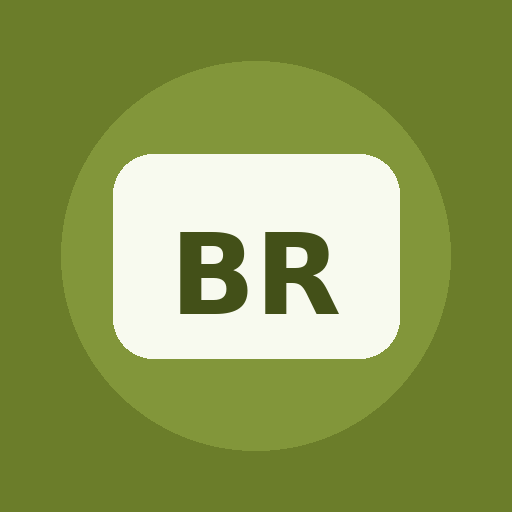
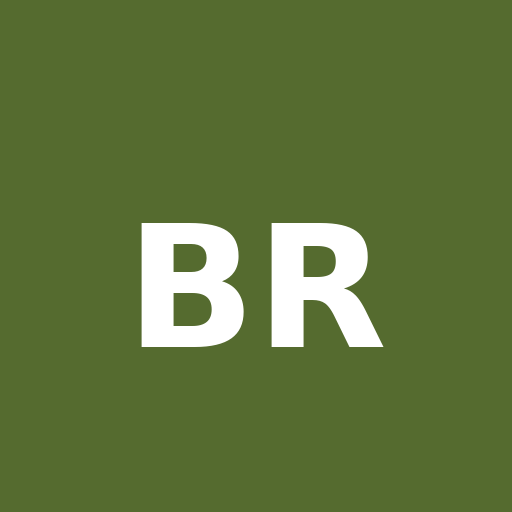
Add files via upload

diff --git a/app.js b/app.js
@@ -1,82 +1,70 @@
-const els = {
-  search: document.getElementById('search'), clear: document.getElementById('clearBtn'), results: document.getElementById('results'),
-  stats: document.getElementById('stats'), header: document.getElementById('sectionHeader'), subtitle: document.getElementById('subtitle'),
-  dialog: document.getElementById('detailDialog'), detail: document.getElementById('detailContent'), close: document.getElementById('closeDialog'), theme: document.getElementById('themeBtn')
-};
-let DATA = []; let view = 'home'; let activeQuery = ''; let favorites = readStore('boykot_favorites', []);
-const VERSION = 'olive-2026-07-05-1';
-function readStore(key, fallback){try{const v=JSON.parse(localStorage.getItem(key)||'null');return Array.isArray(v)?v:fallback}catch{return fallback}}
-function saveStore(key, value){localStorage.setItem(key, JSON.stringify(value))}
-function norm(s){return String(s ?? '').toLocaleLowerCase('tr-TR').normalize('NFD').replace(/[\u0300-\u036f]/g,'').trim()}
-function esc(s){return String(s ?? '').replaceAll('&','&amp;').replaceAll('<','&lt;').replaceAll('>','&gt;').replaceAll('"','&quot;').replaceAll("'",'&#039;')}
-function field(x, ...keys){for(const k of keys){if(x && x[k] !== undefined && x[k] !== null && String(x[k]).trim() !== '') return String(x[k]).trim()} return ''}
-function codeStatus(code){const c=norm(code); if(c.startsWith('c')) return 'alternatif'; if(c.startsWith('d')) return 'inceleme'; return 'boykot'}
-function label(item){const s=item.status; if(s==='alternatif') return '🟢 ALTERNATİF'; if(s==='inceleme') return '⚪ İNCELENİYOR'; return '🔴 BOYKOT'}
-function initials(name){return (name||'?').split(/\s+/).filter(Boolean).slice(0,2).map(w=>w[0]).join('').toUpperCase().slice(0,2)}
-function prepare(raw){return raw.map((x,i)=>{const item={id:i, marka:field(x,'marka','Marka'), anafirma:field(x,'anaFirma','anafirma','Ana Firma','ana_firma'), kod:field(x,'kod','Kod'), kategori:field(x,'kategori','Kategori'), alternatif:field(x,'alternatif','Alternatif'), kaynak:field(x,'kaynak','Kaynak','kanyak'), not:field(x,'not','Not')}; item.status=codeStatus(item.kod); item.search=norm([item.marka,item.anafirma,item.kod,item.kategori,item.alternatif,item.kaynak,item.not].join(' ')); return item}).sort((a,b)=>a.marka.localeCompare(b.marka,'tr'))}
-async function init(){applyTheme(); try{const res=await fetch(`data.json?v=${VERSION}`,{cache:'no-store'}); if(!res.ok) throw new Error('data.json bulunamadı'); const json=await res.json(); DATA=prepare(Array.isArray(json)?json:[]); render()}catch(e){els.stats.innerHTML=''; els.header.innerHTML='<h2>Hata</h2>'; els.results.innerHTML=`<div class="empty">data.json yüklenemedi.<br>${esc(e.message)}</div>`}}
-function currentList(){const q=norm(activeQuery || els.search.value); let list=DATA; if(q) list=list.filter(x=>x.search.includes(q)); if(view==='favorites') list=list.filter(x=>favorites.includes(x.marka)); return list}
-function renderStats(){const total=DATA.length, boy=DATA.filter(x=>x.status==='boykot').length, altStatus=DATA.filter(x=>x.status==='alternatif').length, altFilled=DATA.filter(x=>x.alternatif && x.alternatif.trim()).length, inc=DATA.filter(x=>x.status==='inceleme').length; els.stats.innerHTML=`<div class="stat"><b>${total}</b><small>Toplam</small></div><div class="stat"><b>${boy}</b><small>Boykot</small></div><div class="stat"><b>${altFilled}</b><small>Alternatifli</small></div><div class="stat"><b>${inc}</b><small>İnceleme</small></div><div class="stat"><b>${altStatus}</b><small>Yeşil Kod</small></div>`; els.subtitle.textContent=`${total} marka içinde ara`}
-function setHeader(title, desc, back=false){els.header.innerHTML=`<div><h2>${esc(title)}</h2><p>${esc(desc||'')}</p></div>${back?'<button id="backHome" type="button">Temizle</button>':''}`; const b=document.getElementById('backHome'); if(b)b.onclick=()=>{activeQuery=''; els.search.value=''; view='home'; setNav(); render()}}
-function card(item){const isFav=favorites.includes(item.marka); return `<article class="card status-${item.status}" data-id="${item.id}"><div class="cardTop"><div class="logoCircle">${esc(initials(item.marka))}</div><div style="min-width:0;flex:1"><h3>${esc(item.marka)}</h3><div class="sub">🏢 ${esc(item.anafirma || 'Ana firma belirtilmemiş')}</div></div><button class="favBtn" data-fav="${item.id}" type="button">${isFav?'★':'☆'}</button></div><div class="tagRow"><span class="tag ${item.status==='boykot'?'danger':item.status==='alternatif'?'ok':'warn'}">${label(item)}</span><span class="tag blue">${esc(item.kod || 'Kod yok')}</span>${item.kategori?`<span class="tag">${esc(item.kategori)}</span>`:''}</div>${item.alternatif?`<div class="altBox"><span>Önerilen alternatif</span><b>${esc(item.alternatif)}</b></div>`:''}<div class="cardActions"><span class="sub">Detay ve kaynak</span><button class="detailBtn" data-detail="${item.id}" type="button">Aç →</button></div></article>`}
-function renderHome(){const list=currentList(); const q=norm(activeQuery || els.search.value); setHeader(q?'Arama sonuçları':'Markalar', q?`${list.length} sonuç bulundu`:`${DATA.length} kayıt listeleniyor`, !!q); els.results.className='results cards'; els.results.innerHTML=list.length?list.slice(0,350).map(card).join('')+(list.length>350?`<div class="empty">İlk 350 sonuç gösteriliyor. Daha özel arama yaz.</div>`:''):`<div class="empty">Sonuç bulunamadı.</div>`}
-function groupBy(key){const m=new Map(); for(const item of DATA){const k=item[key]||'Belirtilmemiş'; if(!m.has(k))m.set(k,[]); m.get(k).push(item)} return [...m.entries()].sort((a,b)=>a[0].localeCompare(b[0],'tr'))}
-function renderGroups(kind){const key=kind==='companies'?'anafirma':'kategori'; const title=kind==='companies'?'Ana Firmalar':'Kategoriler'; const groups=groupBy(key); setHeader(title, `${groups.length} başlık`); els.results.className='results'; els.results.innerHTML=groups.map(([name,items])=>`<div class="listItem" data-query="${esc(name)}"><div><b>${esc(name)}</b><br><small>${items.length} marka</small></div><span class="chev">›</span></div>`).join('')}
-function renderFavorites(){const list=currentList(); setHeader('Favoriler', `${list.length} marka`); els.results.className='results cards'; els.results.innerHTML=list.length?list.map(card).join(''):`<div class="empty">Henüz favori eklemedin. Marka kartındaki yıldız işaretine bas.</div>`}
-function renderAbout(){
-  setHeader('Hakkında','Kullanım bilgisi ve açıklamalar');
-  const total=DATA.length;
-  const altFilled=DATA.filter(x=>x.alternatif && x.alternatif.trim()).length;
-  const companies=groupBy('anafirma').length;
-  const categories=groupBy('kategori').length;
-  els.results.className='results aboutPage';
-  els.results.innerHTML=`
-    <section class="aboutHero card">
-      <div class="aboutIcon">BR</div>
-      <div>
-        <h3>📖 Boykot Rehberi</h3>
-        <p>Markalar hakkında hızlı bilgi edinmek, ana firmaları görmek ve alternatif ürünleri kolayca bulmak için hazırlanmıştır.</p>
-      </div>
-    </section>
+const VERSION = "20260705-olive-real-no-old-cache";
+let DATA = [];
+let view = "home";
+let filter = "all";
+let favorites = loadFavorites();
+let currentTitle = "Tüm Markalar";
 
-    <section class="aboutStats">
-      <div class="miniStat"><b>${total}</b><span>Marka</span></div>
-      <div class="miniStat"><b>${companies}</b><span>Ana Firma</span></div>
-      <div class="miniStat"><b>${categories}</b><span>Kategori</span></div>
-      <div class="miniStat"><b>${altFilled}</b><span>Alternatifli</span></div>
-    </section>
+const $ = id => document.getElementById(id);
+const search = $("search"), clearBtn = $("clearBtn"), stats = $("stats"), filters = $("filters"), sectionTitle = $("sectionTitle"), results = $("results"), themeBtn = $("themeBtn");
 
-    <section class="infoCard">
-      <h3>🔍 Nasıl kullanılır?</h3>
-      <p>Arama kutusuna marka adı, ana firma, kategori veya alternatif ürün yazarak hızlıca sonuç bulabilirsin.</p>
-    </section>
+const codeLabels = {A1:"🔴 Boykot",A2:"🔴 Boykot",A3:"🔴 Boykot",B1:"🟠 Dikkat",B2:"🟠 Dikkat",C1:"🟢 Alternatif",C2:"🟢 Alternatif",D1:"⚪ İnceleniyor",D2:"⚪ İnceleniyor"};
+function esc(s){return String(s ?? "").replaceAll("&","&amp;").replaceAll("<","&lt;").replaceAll(">","&gt;").replaceAll('"',"&quot;").replaceAll("'","&#039;")}
+function norm(s){return String(s||"").toLocaleLowerCase("tr-TR").normalize("NFD").replace(/[\u0300-\u036f]/g,"").trim()}
+function get(obj, names){for(const n of names){if(obj && obj[n]!==undefined && obj[n]!==null && String(obj[n]).trim()!=="") return String(obj[n]).trim()} return ""}
+function favKey(marka){return norm(marka)}
+function loadFavorites(){try{return JSON.parse(localStorage.getItem("boykot_favorites_v2")||"[]")}catch{return []}}
+function saveFavorites(){localStorage.setItem("boykot_favorites_v2", JSON.stringify(favorites))}
+function isFav(marka){return favorites.includes(favKey(marka))}
+function toggleFav(marka){const k=favKey(marka); favorites=isFav(marka)?favorites.filter(x=>x!==k):[...favorites,k]; saveFavorites(); render()}
+function hasAlternative(x){const a=norm(x.alternatif); return !!a && !a.includes("alternatif manuel eklenmeli")}
 
-    <section class="infoGrid">
-      <div class="infoCard"><h3>🏢 Ana Firmalar</h3><p>Aynı şirkete bağlı markaları tek ekranda görmek için Ana Firma bölümünü kullan.</p></div>
-      <div class="infoCard"><h3>📂 Kategoriler</h3><p>Temizlik, gıda, kozmetik, sağlık gibi alanlara göre markaları listeleyebilirsin.</p></div>
-      <div class="infoCard"><h3>⭐ Favoriler</h3><p>Sık baktığın markaları yıldızla favorilerine ekleyebilirsin.</p></div>
-      <div class="infoCard"><h3>📋 Detaylar</h3><p>Marka kartına dokunarak ana firma, kod, kategori, alternatif, not ve kaynak bilgisini görebilirsin.</p></div>
-    </section>
-
-    <section class="infoCard warningCard">
-      <h3>⚠️ Bilgilendirme</h3>
-      <p>Bu uygulama yalnızca bilgilendirme amacıyla hazırlanmıştır. Listede yer alan bilgiler farklı kaynaklardan derlenmiştir. Satın alma kararı vermeden önce güncel bilgileri bağımsız kaynaklardan doğrulaman tavsiye edilir.</p>
-    </section>
-
-    <section class="infoCard">
-      <h3>🔄 Güncelleme</h3>
-      <p>Listeyi güncellemek için GitHub’da sadece <b>data.json</b> dosyasını değiştirmen yeterlidir. Uygulama <b>anaFirma</b> ve <b>anafirma</b> alanlarını birlikte okuyabilir.</p>
-      <div class="tagRow"><span class="tag green">Sürüm 1.1</span><span class="tag">Zeytin yeşili tema</span><span class="tag">Tam liste</span></div>
-    </section>`;
+function normalizeItem(raw, i){
+  const marka = get(raw,["marka","Marka","brand"]) || `Marka ${i+1}`;
+  const anaFirma = get(raw,["anaFirma","anafirma","Ana Firma","AnaFirma","ana_firma"]);
+  const kod = get(raw,["kod","Kod","code"]) || "D1";
+  const kategori = get(raw,["kategori","Kategori","category"]);
+  const alternatif = get(raw,["alternatif","Alternatif","alternative"]);
+  const kaynak = get(raw,["kaynak","Kaynak","kanyak","source","link"]);
+  const not = get(raw,["not","Not","note"]);
+  const hay = norm([marka, anaFirma, kod, kategori, alternatif, kaynak, not].join(" "));
+  return {marka, anaFirma, kod, kategori, alternatif, kaynak, not, hay};
 }
-function render(){renderStats(); if(view==='companies')return renderGroups('companies'); if(view==='categories')return renderGroups('categories'); if(view==='favorites')return renderFavorites(); if(view==='about')return renderAbout(); return renderHome()}
-function setNav(){document.querySelectorAll('.bottomNav button').forEach(b=>b.classList.toggle('active',b.dataset.view===view))}
-function toggleFav(item){const name=item.marka; favorites=favorites.includes(name)?favorites.filter(x=>x!==name):[...favorites,name]; saveStore('boykot_favorites',favorites); render()}
-function showDetail(item){els.detail.innerHTML=`<div class="detailInner"><h2>${esc(item.marka)}</h2><div class="tagRow"><span class="tag ${item.status==='boykot'?'danger':item.status==='alternatif'?'ok':'warn'}">${label(item)}</span><span class="tag blue">${esc(item.kod||'Kod yok')}</span></div><div class="detailGrid"><div class="detailRow"><span>Ana Firma</span><b>${esc(item.anafirma||'-')}</b></div><div class="detailRow"><span>Kategori</span><b>${esc(item.kategori||'-')}</b></div><div class="detailRow"><span>Alternatif</span><b>${esc(item.alternatif||'-')}</b></div><div class="detailRow"><span>Not</span><b>${esc(item.not||'-')}</b></div></div>${item.kaynak?`<a class="sourceLink" target="_blank" rel="noopener" href="${esc(item.kaynak)}">Kaynağı aç</a>`:''}</div>`; els.dialog.showModal()}
-function applyTheme(){const t=localStorage.getItem('theme')||'light'; document.documentElement.dataset.theme=t; els.theme.textContent=t==='dark'?'☀':'☾'}
-els.theme.onclick=()=>{const next=document.documentElement.dataset.theme==='dark'?'light':'dark'; localStorage.setItem('theme',next); applyTheme()};
-els.search.addEventListener('input',()=>{activeQuery=''; view='home'; setNav(); render()}); els.clear.onclick=()=>{els.search.value=''; activeQuery=''; view='home'; setNav(); render()}; els.close.onclick=()=>els.dialog.close();
-document.querySelectorAll('.bottomNav button').forEach(btn=>btn.onclick=()=>{view=btn.dataset.view; activeQuery=''; els.search.value=''; setNav(); render(); window.scrollTo({top:0,behavior:'smooth'})});
-els.results.addEventListener('click',e=>{const fav=e.target.closest('[data-fav]'); if(fav){e.stopPropagation(); return toggleFav(DATA[Number(fav.dataset.fav)])} const det=e.target.closest('[data-detail], .card[data-id]'); if(det){const id=Number(det.dataset.detail ?? det.dataset.id); return showDetail(DATA[id])} const li=e.target.closest('[data-query]'); if(li){activeQuery=li.dataset.query; els.search.value=activeQuery; view='home'; setNav(); render(); window.scrollTo({top:0,behavior:'smooth'})}});
-if('serviceWorker' in navigator){navigator.serviceWorker.register('sw.js').catch(()=>{})}
+
+async function clearOldCaches(){
+  try{
+    if("caches" in window){const keys=await caches.keys(); await Promise.all(keys.map(k=>caches.delete(k)));}
+  }catch(e){}
+}
+async function init(){
+  applyTheme();
+  await clearOldCaches();
+  try{
+    const res = await fetch(`data.json?v=${VERSION}`, {cache:"reload"});
+    if(!res.ok) throw new Error(`data.json yüklenemedi: ${res.status}`);
+    const json = await res.json();
+    const list = Array.isArray(json) ? json : (Array.isArray(json.data) ? json.data : []);
+    DATA = list.map(normalizeItem).sort((a,b)=>a.marka.localeCompare(b.marka,"tr"));
+    render();
+  }catch(err){
+    stats.innerHTML=""; filters.innerHTML=""; sectionTitle.innerHTML="";
+    results.innerHTML=`<div class="empty"><b>Veri yüklenemedi.</b><br>${esc(err.message)}<br><br>data.json dosyası index.html ile aynı klasörde olmalı.</div>`;
+  }
+}
+
+function counts(){return {total:DATA.length,boykot:DATA.filter(x=>/^A/i.test(x.kod)).length,dikkat:DATA.filter(x=>/^B/i.test(x.kod)).length,alternatifli:DATA.filter(hasAlternative).length,inceleme:DATA.filter(x=>/^D/i.test(x.kod)).length,firmalar:new Set(DATA.map(x=>x.anaFirma||"Belirtilmemiş")).size}}
+function renderStats(){const c=counts();stats.innerHTML=`<div class="stat"><b>${c.total}</b><small>Toplam</small></div><div class="stat"><b>${c.boykot}</b><small>Boykot</small></div><div class="stat"><b>${c.alternatifli}</b><small>Alternatifli</small></div><div class="stat"><b>${c.inceleme}</b><small>İnceleniyor</small></div>`}
+function renderFilters(){const arr=[["all","Tümü"],["A","🔴 Boykot"],["D","⚪ İnceleniyor"],["alt","🟢 Alternatifli"],["fav","⭐ Favoriler"]];filters.innerHTML=arr.map(([k,l])=>`<button class="chip ${filter===k?'active':''}" data-filter="${k}" type="button">${l}</button>`).join("")}
+function filteredList(){const q=norm(search.value);return DATA.filter(x=>{const okQ=!q||x.hay.includes(q);const okF=filter==="all"||(filter==="A"&&/^A/i.test(x.kod))||(filter==="D"&&/^D/i.test(x.kod))||(filter==="alt"&&hasAlternative(x))||(filter==="fav"&&isFav(x.marka));return okQ&&okF}).sort((a,b)=>isFav(b.marka)-isFav(a.marka)||a.marka.localeCompare(b.marka,"tr"))}
+function badge(kod){const cls=norm(kod).replace(/[^a-z0-9]/g,"");return `<span class="badge ${cls}">${esc(codeLabels[kod]||"Kod")} <b>${esc(kod)}</b></span>`}
+function tagHtml(alt){if(!hasAlternative({alternatif:alt}))return `<div class="box alt"><span>Alternatif</span><b>-</b></div>`;const tags=alt.split(/[;,•]/).map(x=>x.trim()).filter(Boolean).slice(0,9);return `<div class="box alt"><span>Alternatif</span><div class="tags">${tags.map(t=>`<em>${esc(t)}</em>`).join("")}</div></div>`}
+function card(x){return `<article class="card" data-brand="${encodeURIComponent(x.marka)}"><div class="cardTop"><div><div class="badgeLine">${badge(x.kod)}${hasAlternative(x)?'<span class="badge c2">🟢 Alternatif var</span>':''}</div><h3>${esc(x.marka)}</h3><div class="company">🏢 ${esc(x.anaFirma||"Belirtilmemiş")}</div></div><button class="fav" data-fav="${encodeURIComponent(x.marka)}" type="button">${isFav(x.marka)?"★":"☆"}</button></div><div class="meta"><div class="box"><span>Kategori</span><b>${esc(x.kategori||"Belirtilmemiş")}</b></div><div class="box"><span>Kod</span><b>${esc(x.kod||"D1")}</b></div></div>${tagHtml(x.alternatif)}<button class="more" type="button">Ayrıntıları Gör →</button></article>`}
+function renderHome(list=filteredList(), title=currentTitle){renderStats();renderFilters();sectionTitle.innerHTML=`<h2>${esc(title)}</h2><span>${list.length} sonuç</span>`;results.innerHTML=list.length?list.slice(0,600).map(card).join("")+(list.length>600?'<div class="empty">İlk 600 sonuç gösteriliyor. Daha dar arama yap.</div>':''):'<div class="empty">Sonuç bulunamadı.</div>'}
+function groupBy(key){const m=new Map();for(const x of DATA){const name=x[key]||"Belirtilmemiş";if(!m.has(name))m.set(name,[]);m.get(name).push(x)}return [...m.entries()].sort((a,b)=>b[1].length-a[1].length||a[0].localeCompare(b[0],"tr"))}
+function renderGroups(key,title,attr){renderStats();filters.innerHTML="";search.value="";const g=groupBy(key);sectionTitle.innerHTML=`<h2>${title}</h2><span>${g.length} liste</span>`;results.innerHTML=g.map(([name,items])=>`<div class="group" ${attr}="${encodeURIComponent(name)}"><div><b>${esc(name)}</b><br><small>${items.slice(0,3).map(x=>esc(x.marka)).join(", ")}${items.length>3?"...":""}</small></div><div class="count">${items.length}</div></div>`).join("")}
+function renderAbout(){const c=counts();stats.innerHTML="";filters.innerHTML="";sectionTitle.innerHTML="";search.value="";results.innerHTML=`<section class="aboutHero"><h2>📖 Boykot Rehberi</h2><p>Markaları, ana firmaları, kategorileri ve alternatifleri hızlıca bulmak için hazırlanmış mobil uyumlu rehber.</p></section><div class="aboutGrid"><div class="aboutCard"><h3>📊 Liste Durumu</h3><p><b>${c.total}</b> marka, <b>${c.firmalar}</b> ana firma ve <b>${c.alternatifli}</b> alternatifli kayıt bulunmaktadır.</p></div><div class="aboutCard"><h3>🔍 Marka Arama</h3><p>Arama kutusuna marka adı, ana firma, kategori veya alternatif ürün yazabilirsin. Örneğin: P&G, Temizlik, Peros.</p></div><div class="aboutCard"><h3>🏢 Ana Firmalar</h3><p>Aynı şirkete ait markaları görmek için alt menüden Ana Firmalar bölümünü aç.</p></div><div class="aboutCard"><h3>📂 Kategoriler</h3><p>Markaları gıda, temizlik, kozmetik, sağlık ve diğer kategorilere göre listeleyebilirsin.</p></div><div class="aboutCard"><h3>⭐ Favoriler</h3><p>Yıldız işaretine basarak markaları favorilere ekleyebilir, sonra Favoriler bölümünden hızlıca bulabilirsin.</p></div><div class="aboutCard"><h3>🟢 Alternatif Ürünler</h3><p>Alternatif olarak gösterilen ürünler aynı ürün grubunda değerlendirilebilecek seçeneklerdir. Satın almadan önce kendi araştırmanı yapman tavsiye edilir.</p></div><div class="aboutCard"><h3>⚠️ Bilgilendirme</h3><p>Bu uygulama yalnızca bilgilendirme amacıyla hazırlanmıştır. Bilgiler farklı kaynaklardan derlenmiştir ve zamanla değişebilir. Kullanıcıların güncel bilgileri bağımsız kaynaklardan doğrulaması önerilir.</p></div><div class="aboutCard"><h3>🔄 Güncelleme</h3><p>Yeni marka eklemek veya bilgileri değiştirmek için sadece data.json dosyasını güncellemen yeterlidir.</p></div></div>`}
+function render(){document.querySelectorAll(".nav button").forEach(b=>b.classList.toggle("active",b.dataset.view===view));if(view==="home")return renderHome();if(view==="companies")return renderGroups("anaFirma","🏢 Ana Firmalar","data-company");if(view==="categories")return renderGroups("kategori","📂 Kategoriler","data-category");if(view==="favorites"){filter="fav";currentTitle="⭐ Favoriler";return renderHome(DATA.filter(x=>isFav(x.marka)),currentTitle)}if(view==="about")return renderAbout()}
+function detail(x){const d=$("detailDialog"), c=$("detailContent");c.innerHTML=`<div class="detailHead"><h2>${esc(x.marka)}</h2><p>${esc(x.anaFirma||"Belirtilmemiş")}</p></div><div class="detailBody"><div class="detailLine"><span>Ana Firma</span><b>${esc(x.anaFirma||"Belirtilmemiş")}</b></div><div class="detailLine"><span>Kategori</span><b>${esc(x.kategori||"Belirtilmemiş")}</b></div><div class="detailLine"><span>Kod</span><b>${esc(x.kod||"D1")} — ${esc(codeLabels[x.kod]||"")}</b></div><div class="detailLine"><span>Alternatif</span><b>${esc(x.alternatif||"-")}</b></div><div class="detailLine"><span>Not</span><b>${esc(x.not||"-")}</b></div><div class="detailLine"><span>Kaynak</span><b>${/^https?:\/\//.test(x.kaynak)?`<a href="${esc(x.kaynak)}" target="_blank" rel="noopener">Kaynağı aç</a>`:esc(x.kaynak||"-")}</b></div></div>`;d.showModal()}
+search.addEventListener("input",()=>{view="home";currentTitle="Arama Sonuçları";render()});clearBtn.addEventListener("click",()=>{search.value="";filter="all";view="home";currentTitle="Tüm Markalar";render();search.focus()});filters.addEventListener("click",e=>{const b=e.target.closest("[data-filter]");if(!b)return;filter=b.dataset.filter;view="home";currentTitle=b.textContent.trim();render()});document.querySelectorAll(".nav button").forEach(b=>b.addEventListener("click",()=>{view=b.dataset.view;if(view==="home"){filter="all";currentTitle="Tüm Markalar"}render();scrollTo({top:0,behavior:"smooth"})}));results.addEventListener("click",e=>{const f=e.target.closest("[data-fav]");if(f){e.stopPropagation();toggleFav(decodeURIComponent(f.dataset.fav));return}const co=e.target.closest("[data-company]");if(co){const n=decodeURIComponent(co.dataset.company);view="home";currentTitle=`🏢 ${n}`;renderHome(DATA.filter(x=>(x.anaFirma||"Belirtilmemiş")===n),currentTitle);return}const ca=e.target.closest("[data-category]");if(ca){const n=decodeURIComponent(ca.dataset.category);view="home";currentTitle=`📂 ${n}`;renderHome(DATA.filter(x=>(x.kategori||"Belirtilmemiş")===n),currentTitle);return}const card=e.target.closest("[data-brand]");if(card){const n=decodeURIComponent(card.dataset.brand);const x=DATA.find(i=>i.marka===n);if(x)detail(x)}});$("closeDialog").addEventListener("click",()=>$("detailDialog").close());themeBtn.addEventListener("click",()=>{localStorage.setItem("boykot_theme",document.body.classList.contains("dark")?"light":"dark");applyTheme()});function applyTheme(){const dark=localStorage.getItem("boykot_theme")==="dark";document.body.classList.toggle("dark",dark);if(themeBtn)themeBtn.textContent=dark?"☀️":"🌙"}
+if("serviceWorker" in navigator){navigator.serviceWorker.getRegistrations().then(rs=>Promise.all(rs.map(r=>r.unregister()))).catch(()=>{})}
 init();

diff --git a/index.html b/index.html
@@ -1,53 +1,50 @@
 <!doctype html>
 <html lang="tr">
 <head>
-  <meta charset="utf-8" />
-  <meta name="viewport" content="width=device-width, initial-scale=1, viewport-fit=cover" />
-  <meta name="theme-color" content="#6b7d2a" />
+  <meta charset="utf-8">
+  <meta name="viewport" content="width=device-width, initial-scale=1, viewport-fit=cover">
+  <meta name="theme-color" content="#556B2F">
   <title>Boykot Rehberi</title>
-  <link rel="manifest" href="manifest.json" />
-  <link rel="stylesheet" href="style.css" />
+  <link rel="manifest" href="manifest.json?v=20260705-olive-real">
+  <link rel="stylesheet" href="style.css?v=20260705-olive-real">
 </head>
 <body>
-  <div id="app" class="appShell">
-    <header class="hero">
-      <div class="topbar">
-        <div class="brandMark">BR</div>
-        <div>
-          <h1>Boykot Rehberi</h1>
-          <p id="subtitle">Marka, ana firma ve alternatif ara</p>
-        </div>
-        <button id="themeBtn" class="iconBtn" type="button" aria-label="Tema değiştir">☾</button>
+  <header class="top">
+    <div class="topRow">
+      <div class="logo">☘️</div>
+      <div class="headline">
+        <h1>Boykot Rehberi</h1>
+        <p>Marka, ana firma ve alternatif ara</p>
       </div>
+      <button id="themeBtn" class="themeBtn" type="button" aria-label="Tema değiştir">🌙</button>
+    </div>
+    <div class="searchWrap">
+      <span>🔍</span>
+      <input id="search" type="search" placeholder="Marka, ana firma, kategori veya alternatif..." autocomplete="off">
+      <button id="clearBtn" type="button" aria-label="Temizle">×</button>
+    </div>
+  </header>
 
-      <label class="searchBox">
-        <span>🔎</span>
-        <input id="search" type="search" autocomplete="off" placeholder="Marka, ana firma, kategori veya alternatif ara..." />
-        <button id="clearBtn" type="button" aria-label="Aramayı temizle">×</button>
-      </label>
+  <main class="app">
+    <section id="stats" class="stats"></section>
+    <section id="filters" class="filters"></section>
+    <section id="sectionTitle" class="sectionTitle"></section>
+    <section id="results" class="results"></section>
+  </main>
 
-      <div id="stats" class="stats"></div>
-    </header>
+  <nav class="nav">
+    <button class="active" data-view="home" type="button"><span>🏠</span><small>Ana Sayfa</small></button>
+    <button data-view="companies" type="button"><span>🏢</span><small>Ana Firmalar</small></button>
+    <button data-view="categories" type="button"><span>📂</span><small>Kategoriler</small></button>
+    <button data-view="favorites" type="button"><span>⭐</span><small>Favoriler</small></button>
+    <button data-view="about" type="button"><span>ℹ️</span><small>Hakkında</small></button>
+  </nav>
 
-    <main class="content">
-      <section id="sectionHeader" class="sectionHeader"></section>
-      <section id="results" class="results"></section>
-    </main>
-
-    <nav class="bottomNav" aria-label="Alt menü">
-      <button data-view="home" class="active" type="button"><span>⌂</span><b>Ana Sayfa</b></button>
-      <button data-view="companies" type="button"><span>🏢</span><b>Ana Firma</b></button>
-      <button data-view="categories" type="button"><span>▦</span><b>Kategori</b></button>
-      <button data-view="favorites" type="button"><span>★</span><b>Favori</b></button>
-      <button data-view="about" type="button"><span>ⓘ</span><b>Bilgi</b></button>
-    </nav>
-  </div>
-
-  <dialog id="detailDialog" class="detailDialog">
-    <button id="closeDialog" class="closeDialog" type="button">×</button>
+  <dialog id="detailDialog" class="dialog">
     <div id="detailContent"></div>
+    <button id="closeDialog" class="close" type="button">Kapat</button>
   </dialog>
 
-  <script src="app.js"></script>
+  <script src="app.js?v=20260705-olive-real"></script>
 </body>
 </html>

diff --git a/style.css b/style.css
@@ -1,27 +1,8 @@
 :root{
-  --bg:#f6f7fb; --surface:#ffffff; --surface2:#f1f5f9; --text:#0f172a; --muted:#64748b;
-  --line:#e2e8f0; --primary:#6b7d2a; --primary2:#eef4d3; --danger:#dc2626; --warn:#f97316;
-  --ok:#16a34a; --unknown:#64748b; --shadow:0 18px 40px rgba(15,23,42,.10);
-  --radius:24px; --navH:78px;
+  --primary:#556B2F;--primary2:#6B7F3A;--primarySoft:#EEF4E4;
+  --bg:#F7F8F3;--card:#fff;--text:#17210F;--muted:#64705A;--line:#E1E7D8;
+  --red:#B42318;--orange:#B56A00;--green:#2E7D32;--gray:#6B7280;
+  --shadow:0 14px 34px rgba(38,53,25,.11);--radius:22px;
 }
-[data-theme="dark"]{
-  --bg:#0b1120; --surface:#111827; --surface2:#1e293b; --text:#f8fafc; --muted:#94a3b8;
-  --line:#263244; --primary:#b6c874; --primary2:#2f3a1f; --shadow:0 18px 40px rgba(0,0,0,.35);
-}
-*{box-sizing:border-box} html{scroll-behavior:smooth} body{margin:0;background:var(--bg);color:var(--text);font-family:Inter,ui-sans-serif,system-ui,-apple-system,BlinkMacSystemFont,"Segoe UI",Roboto,Arial,sans-serif}
-.appShell{min-height:100vh;padding-bottom:calc(var(--navH) + env(safe-area-inset-bottom));}
-.hero{position:sticky;top:0;z-index:10;background:linear-gradient(160deg,#263119,#6b7d2a);color:#fff;padding:18px 16px 16px;border-radius:0 0 30px 30px;box-shadow:var(--shadow)}
-.topbar{display:flex;align-items:center;gap:12px;max-width:980px;margin:0 auto 16px}.brandMark{width:46px;height:46px;border-radius:16px;background:rgba(255,255,255,.16);display:grid;place-items:center;font-weight:900;letter-spacing:-1px;border:1px solid rgba(255,255,255,.25)}
-h1{font-size:24px;line-height:1;margin:0} .topbar p{margin:5px 0 0;color:rgba(255,255,255,.78);font-size:13px}.iconBtn{margin-left:auto;border:0;border-radius:16px;width:44px;height:44px;background:rgba(255,255,255,.14);color:#fff;font-size:20px}
-.searchBox{max-width:980px;margin:0 auto;display:flex;align-items:center;gap:10px;background:#fff;color:#0f172a;padding:11px 14px;border-radius:20px;box-shadow:0 12px 22px rgba(0,0,0,.16)}.searchBox input{border:0;outline:0;width:100%;font-size:16px;background:transparent;color:#0f172a}.searchBox button{border:0;background:#e2e8f0;color:#334155;width:28px;height:28px;border-radius:999px;font-size:20px;line-height:20px}
-.stats{max-width:980px;margin:14px auto 0;display:grid;grid-template-columns:repeat(5,1fr);gap:8px}.stat{background:rgba(255,255,255,.14);border:1px solid rgba(255,255,255,.18);border-radius:18px;padding:10px 8px;text-align:center;backdrop-filter:blur(10px)}.stat b{display:block;font-size:18px}.stat small{font-size:11px;color:rgba(255,255,255,.78)}
-.content{max-width:980px;margin:0 auto;padding:18px 14px}.sectionHeader{display:flex;justify-content:space-between;align-items:end;gap:12px;margin:2px 2px 14px}.sectionHeader h2{margin:0;font-size:20px}.sectionHeader p{margin:4px 0 0;color:var(--muted);font-size:13px}.sectionHeader button{border:1px solid var(--line);background:var(--surface);color:var(--text);border-radius:999px;padding:9px 12px;font-weight:700}
-.results{display:grid;gap:12px}.card{border:1px solid var(--line);background:var(--surface);border-radius:var(--radius);padding:16px;box-shadow:0 8px 22px rgba(15,23,42,.06);position:relative;overflow:hidden}.card:before{content:"";position:absolute;left:0;top:0;width:6px;height:100%;background:var(--unknown)}.card.status-boykot:before{background:var(--danger)}.card.status-alternatif:before{background:var(--ok)}.card.status-inceleme:before{background:var(--unknown)}
-.cardTop{display:flex;gap:12px;align-items:flex-start}.logoCircle{width:48px;height:48px;min-width:48px;border-radius:18px;background:var(--surface2);display:grid;place-items:center;font-weight:900;color:var(--primary);font-size:17px}.card h3{margin:0;font-size:20px;line-height:1.15}.sub{margin-top:4px;color:var(--muted);font-size:13px}.tagRow{display:flex;gap:8px;flex-wrap:wrap;margin-top:12px}.tag{border-radius:999px;padding:7px 10px;background:var(--surface2);font-size:12px;font-weight:800;color:var(--text)}.tag.danger{background:#fee2e2;color:#991b1b}.tag.ok{background:#dcfce7;color:#166534}.tag.warn{background:#ffedd5;color:#9a3412}.tag.blue{background:var(--primary2);color:#55651f}.altBox{margin-top:12px;background:var(--surface2);border-radius:18px;padding:12px}.altBox span{display:block;color:var(--muted);font-size:12px;font-weight:800;margin-bottom:4px}.altBox b{font-size:14px;font-weight:700}.cardActions{display:flex;justify-content:space-between;align-items:center;margin-top:12px}.detailBtn{border:0;background:var(--primary);color:white;border-radius:14px;padding:10px 13px;font-weight:900}.favBtn{border:1px solid var(--line);background:var(--surface);color:#f59e0b;border-radius:14px;min-width:42px;height:40px;font-size:20px}.empty{background:var(--surface);border:1px dashed var(--line);border-radius:var(--radius);padding:28px;text-align:center;color:var(--muted)}
-.listItem{display:flex;justify-content:space-between;align-items:center;gap:12px;border:1px solid var(--line);background:var(--surface);border-radius:20px;padding:15px 16px;box-shadow:0 6px 18px rgba(15,23,42,.05)}.listItem b{font-size:16px}.listItem small{color:var(--muted)}.chev{font-size:26px;color:var(--muted)}
-.bottomNav{position:fixed;left:0;right:0;bottom:0;z-index:20;height:calc(var(--navH) + env(safe-area-inset-bottom));padding:8px 8px calc(8px + env(safe-area-inset-bottom));background:rgba(255,255,255,.88);backdrop-filter:blur(18px);border-top:1px solid var(--line);display:grid;grid-template-columns:repeat(5,1fr);gap:4px}[data-theme="dark"] .bottomNav{background:rgba(15,23,42,.86)}.bottomNav button{border:0;background:transparent;color:var(--muted);border-radius:18px;font-size:11px;font-weight:800;display:flex;flex-direction:column;align-items:center;justify-content:center;gap:3px}.bottomNav span{font-size:20px}.bottomNav button.active{background:var(--primary2);color:var(--primary)}
-.detailDialog{width:min(620px,calc(100vw - 22px));border:0;border-radius:28px;padding:0;background:var(--surface);color:var(--text);box-shadow:var(--shadow)}.detailDialog::backdrop{background:rgba(2,6,23,.58);backdrop-filter:blur(5px)}.closeDialog{position:absolute;right:12px;top:12px;border:0;background:var(--surface2);color:var(--text);border-radius:999px;width:38px;height:38px;font-size:24px}.detailInner{padding:26px 20px 20px}.detailInner h2{margin:0 44px 8px 0}.detailGrid{display:grid;gap:10px;margin:16px 0}.detailRow{background:var(--surface2);border-radius:16px;padding:12px}.detailRow span{display:block;color:var(--muted);font-size:12px;font-weight:900;margin-bottom:3px}.sourceLink{display:inline-flex;text-decoration:none;background:var(--primary);color:#fff;border-radius:16px;padding:12px 14px;font-weight:900}
-@media (min-width:720px){.results.cards{grid-template-columns:repeat(2,1fr)}.hero{padding-left:24px;padding-right:24px}.content{padding-left:24px;padding-right:24px}}
-
-.aboutPage{gap:14px}.aboutHero{display:flex;gap:14px;align-items:center;background:linear-gradient(135deg,var(--surface),var(--primary2))}.aboutHero:before{background:var(--primary)}.aboutHero h3{margin:0 0 6px;font-size:22px}.aboutHero p{margin:0;color:var(--muted);line-height:1.5}.aboutIcon{width:62px;height:62px;min-width:62px;border-radius:22px;background:var(--primary);color:#fff;display:grid;place-items:center;font-weight:1000;letter-spacing:-1px;box-shadow:0 10px 24px rgba(107,125,42,.25)}.aboutStats{display:grid;grid-template-columns:repeat(2,1fr);gap:10px}.miniStat{background:var(--surface);border:1px solid var(--line);border-radius:20px;padding:14px;text-align:center;box-shadow:0 6px 18px rgba(15,23,42,.05)}.miniStat b{display:block;font-size:23px;color:var(--primary)}.miniStat span{display:block;margin-top:4px;color:var(--muted);font-size:12px;font-weight:800}.infoGrid{display:grid;gap:12px}.infoCard{background:var(--surface);border:1px solid var(--line);border-radius:22px;padding:16px;box-shadow:0 6px 18px rgba(15,23,42,.05)}.infoCard h3{margin:0 0 8px;font-size:18px}.infoCard p{margin:0;color:var(--muted);line-height:1.55}.warningCard{border-color:rgba(249,115,22,.35);background:linear-gradient(135deg,var(--surface),rgba(249,115,22,.08))}.tag.green{background:var(--primary2);color:var(--primary)}
-@media (max-width:430px){.stats{grid-template-columns:repeat(3,1fr)}.stat:nth-child(4),.stat:nth-child(5){grid-column:auto}.stat b{font-size:16px}.stat small{font-size:10px}}@media (min-width:720px){.aboutStats{grid-template-columns:repeat(4,1fr)}.infoGrid{grid-template-columns:repeat(2,1fr)}}
+body.dark{--bg:#10160C;--card:#182111;--text:#F2F7EA;--muted:#B7C5A9;--line:#2E3B23;--primarySoft:#25331A;--shadow:0 14px 34px rgba(0,0,0,.25)}
+*{box-sizing:border-box}html{scroll-behavior:smooth}body{margin:0;background:var(--bg);color:var(--text);font-family:system-ui,-apple-system,Segoe UI,Roboto,Arial,sans-serif;padding-bottom:92px}.top{position:sticky;top:0;z-index:10;background:linear-gradient(160deg,var(--primary),#405323);color:white;padding:18px 16px 20px;border-bottom-left-radius:28px;border-bottom-right-radius:28px;box-shadow:var(--shadow)}.topRow{display:flex;gap:12px;align-items:center;max-width:980px;margin:auto}.logo{width:48px;height:48px;border-radius:16px;background:rgba(255,255,255,.18);display:grid;place-items:center;font-size:25px}.headline{flex:1}.headline h1{margin:0;font-size:24px}.headline p{margin:3px 0 0;color:rgba(255,255,255,.84);font-size:13px}.themeBtn{border:0;border-radius:16px;background:rgba(255,255,255,.18);color:white;width:46px;height:46px;font-size:20px}.searchWrap{max-width:980px;margin:16px auto 0;background:white;color:#1b250f;border-radius:22px;display:flex;align-items:center;gap:8px;padding:11px 14px;box-shadow:0 10px 28px rgba(0,0,0,.12)}.searchWrap input{border:0;outline:0;flex:1;font-size:16px;background:transparent;color:#1b250f}.searchWrap button{border:0;background:#EEF4E4;border-radius:13px;width:32px;height:32px;font-size:22px;color:var(--primary)}.app{max-width:980px;margin:0 auto;padding:16px}.stats{display:grid;grid-template-columns:repeat(4,1fr);gap:10px;margin-top:4px}.stat{background:var(--card);border:1px solid var(--line);border-radius:18px;padding:13px 10px;text-align:center;box-shadow:var(--shadow)}.stat b{display:block;font-size:20px;color:var(--primary)}body.dark .stat b{color:#BFD79B}.stat small{font-size:11px;color:var(--muted)}.filters{display:flex;gap:8px;overflow:auto;padding:14px 0 6px}.chip{white-space:nowrap;border:1px solid var(--line);background:var(--card);color:var(--text);border-radius:999px;padding:10px 13px;font-weight:700}.chip.active{background:var(--primary);color:white;border-color:var(--primary)}.sectionTitle{display:flex;align-items:end;justify-content:space-between;margin:10px 2px 12px}.sectionTitle h2{font-size:19px;margin:0}.sectionTitle span{color:var(--muted);font-size:13px}.results{display:grid;gap:13px}.card{background:var(--card);border:1px solid var(--line);border-radius:var(--radius);padding:16px;box-shadow:var(--shadow)}.cardTop{display:flex;justify-content:space-between;gap:12px}.badgeLine{display:flex;flex-wrap:wrap;gap:6px;margin-bottom:8px}.badge{display:inline-flex;align-items:center;gap:5px;border-radius:999px;background:var(--primarySoft);color:var(--primary);font-size:12px;font-weight:800;padding:6px 9px}.badge.a1,.badge.a2,.badge.a3{background:#FEECEC;color:var(--red)}.badge.b1,.badge.b2{background:#FFF4DF;color:var(--orange)}.badge.c1,.badge.c2{background:#EAF7EA;color:var(--green)}.badge.d1,.badge.d2{background:#F1F3F5;color:var(--gray)}.card h3{font-size:22px;margin:0 0 5px}.company{font-weight:800;color:var(--primary)}body.dark .company{color:#BFD79B}.fav{border:0;background:var(--primarySoft);color:var(--primary);width:44px;height:44px;border-radius:16px;font-size:23px}.meta{display:grid;grid-template-columns:1fr 1fr;gap:10px;margin-top:12px}.box{border:1px solid var(--line);border-radius:16px;padding:11px;background:rgba(127,145,86,.06)}.box span{display:block;color:var(--muted);font-size:12px;margin-bottom:4px}.box b{font-size:14px}.alt{margin-top:10px}.tags{display:flex;flex-wrap:wrap;gap:7px}.tags em{font-style:normal;background:var(--primarySoft);color:var(--primary);border-radius:999px;padding:7px 10px;font-weight:700;font-size:13px}.more{margin-top:12px;width:100%;border:0;border-radius:16px;background:var(--primary);color:white;font-weight:900;padding:12px 14px}.group{background:var(--card);border:1px solid var(--line);border-radius:20px;padding:15px;display:flex;justify-content:space-between;align-items:center;box-shadow:var(--shadow)}.group b{font-size:17px}.group small{color:var(--muted)}.count{background:var(--primary);color:white;border-radius:999px;padding:7px 11px;font-weight:900}.empty{background:var(--card);border:1px dashed var(--line);border-radius:22px;padding:24px;text-align:center;color:var(--muted)}.aboutHero{background:linear-gradient(160deg,var(--primary),#405323);color:white;border-radius:26px;padding:22px;box-shadow:var(--shadow)}.aboutHero h2{margin:0 0 8px}.aboutHero p{margin:0;color:rgba(255,255,255,.86)}.aboutGrid{display:grid;gap:12px;margin-top:14px}.aboutCard{background:var(--card);border:1px solid var(--line);border-radius:22px;padding:17px;box-shadow:var(--shadow)}.aboutCard h3{margin:0 0 8px}.aboutCard p{margin:0;color:var(--muted);line-height:1.55}.nav{position:fixed;left:0;right:0;bottom:0;z-index:20;background:rgba(255,255,255,.94);border-top:1px solid var(--line);display:grid;grid-template-columns:repeat(5,1fr);padding:8px 8px max(8px,env(safe-area-inset-bottom));backdrop-filter:blur(14px)}body.dark .nav{background:rgba(24,33,17,.94)}.nav button{border:0;background:transparent;color:var(--muted);border-radius:16px;padding:7px 2px}.nav button span{display:block;font-size:20px}.nav button small{font-size:10px;font-weight:800}.nav button.active{background:var(--primarySoft);color:var(--primary)}.dialog{border:0;border-radius:26px;max-width:540px;width:calc(100% - 28px);background:var(--card);color:var(--text);box-shadow:0 30px 80px rgba(0,0,0,.32);padding:0}.dialog::backdrop{background:rgba(0,0,0,.45)}.detailHead{background:linear-gradient(160deg,var(--primary),#405323);color:white;padding:20px;border-top-left-radius:26px;border-top-right-radius:26px}.detailHead h2{margin:0}.detailHead p{margin:4px 0 0;color:rgba(255,255,255,.85)}.detailBody{padding:16px;display:grid;gap:10px}.detailLine{border:1px solid var(--line);border-radius:16px;padding:12px}.detailLine span{display:block;color:var(--muted);font-size:12px;margin-bottom:4px}.detailLine b{word-break:break-word}.detailLine a{color:var(--primary);font-weight:900}.close{margin:0 16px 16px;width:calc(100% - 32px);border:0;border-radius:16px;background:var(--primary);color:white;font-weight:900;padding:13px}@media(max-width:520px){.stats{grid-template-columns:repeat(2,1fr)}.card h3{font-size:20px}.meta{grid-template-columns:1fr}.app{padding:13px}.top{padding:15px 13px 18px}.headline h1{font-size:22px}}

diff --git a/sw.js b/sw.js
@@ -1,5 +1,8 @@
-const CACHE = 'boykot-olive-v1';
-const ASSETS = ['./','./index.html','./style.css','./app.js','./data.json','./manifest.json','./icon-192.png','./icon-512.png'];
-self.addEventListener('install', event => { self.skipWaiting(); event.waitUntil(caches.open(CACHE).then(cache => cache.addAll(ASSETS))); });
-self.addEventListener('activate', event => { event.waitUntil(caches.keys().then(keys => Promise.all(keys.filter(k => k !== CACHE).map(k => caches.delete(k))))); self.clients.claim(); });
-self.addEventListener('fetch', event => { event.respondWith(fetch(event.request).then(res => { const copy = res.clone(); caches.open(CACHE).then(cache => cache.put(event.request, copy)); return res; }).catch(() => caches.match(event.request))); });
+// Bu sürüm eski cache sorunlarını önlemek için bilinçli olarak dosya cache'lemez.
+self.addEventListener('install', event => self.skipWaiting());
+self.addEventListener('activate', event => {
+  event.waitUntil(caches.keys().then(keys => Promise.all(keys.map(k => caches.delete(k)))).then(() => self.clients.claim()));
+});
+self.addEventListener('fetch', event => {
+  event.respondWith(fetch(event.request, {cache:'no-store'}).catch(() => caches.match(event.request)));
+});

diff --git a/README.md b/README.md
@@ -1,8 +1,9 @@
-# Boykot Rehberi
+Boykot Rehberi - Çalışan Final Sürüm
 
-GitHub Pages için hazır PWA uygulaması.
+GitHub Pages'e yüklemek için bu ZIP'i açın ve içindeki dosyaların tamamını repoya yükleyin.
+ZIP dosyasını değil, içindeki dosyaları yükleyin.
 
-Yüklenecek dosyalar:
+Gerekli dosyalar:
 - index.html
 - app.js
 - style.css
@@ -11,5 +12,6 @@ Yüklenecek dosyalar:
 - sw.js
 - icon-192.png
 - icon-512.png
+- README.md
 
-Not: Uygulama hem `anaFirma` hem de `anafirma` alanını okuyabilir.
+Bu sürüm eski PWA cache'lerini temizler.